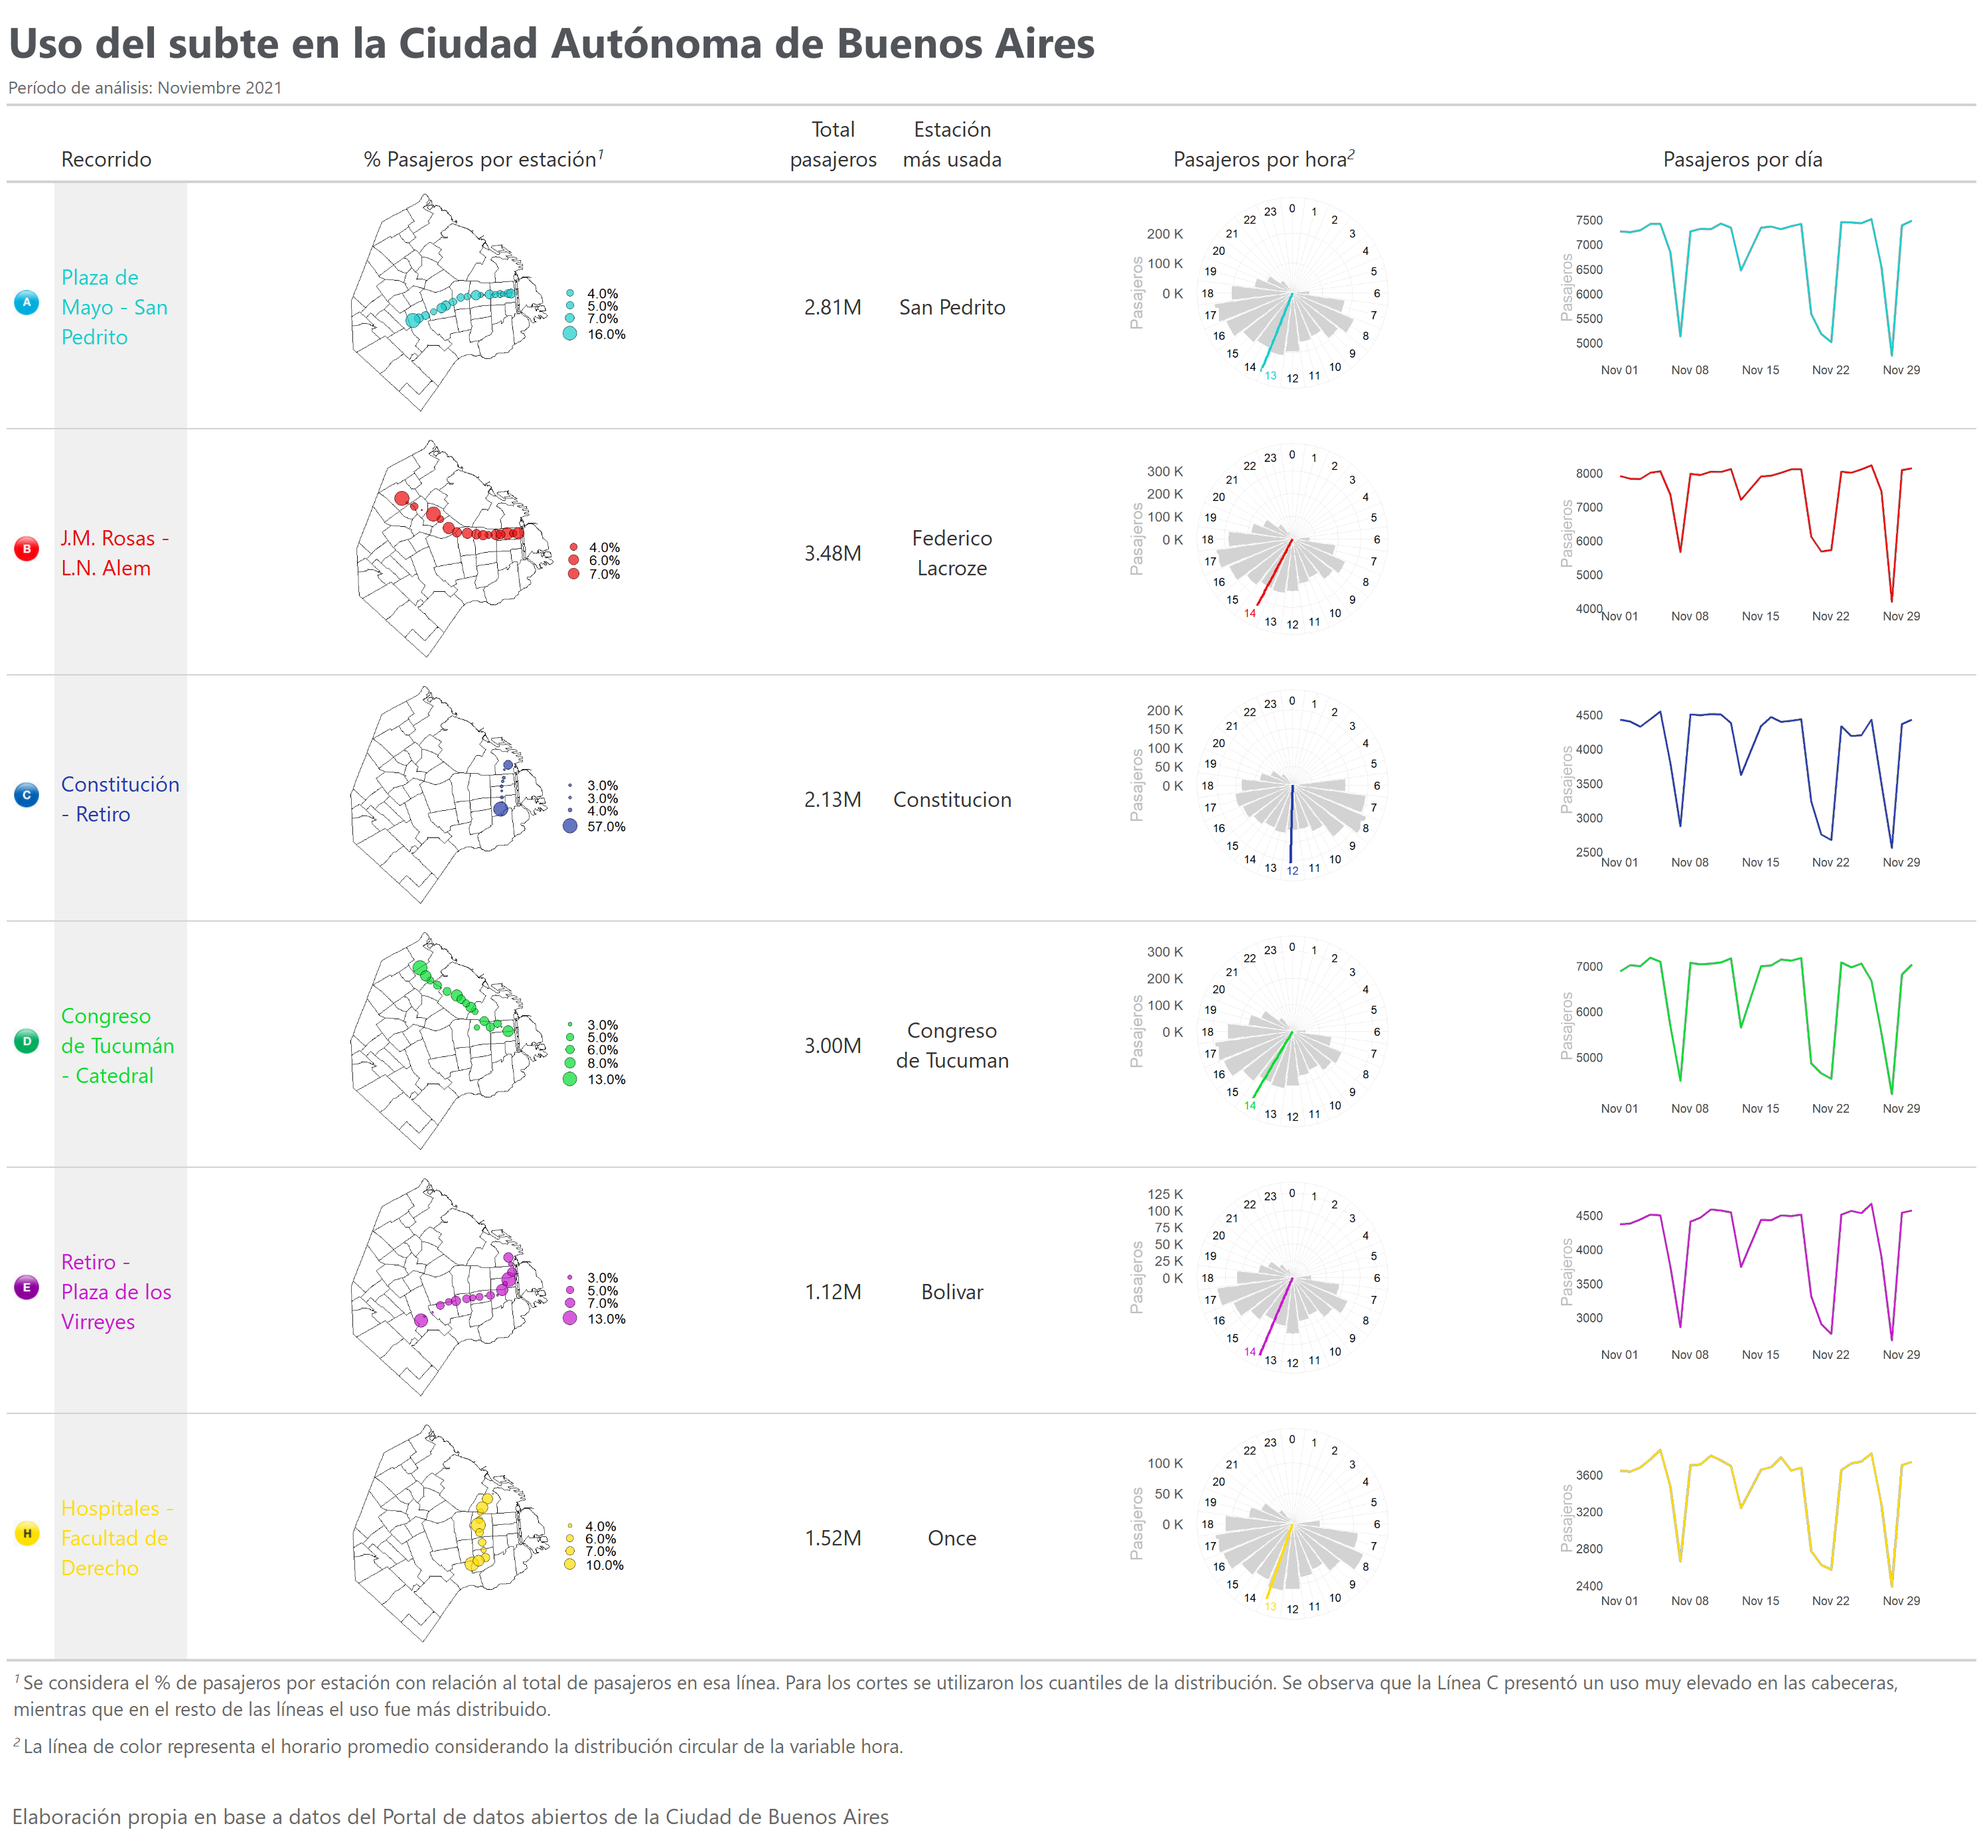
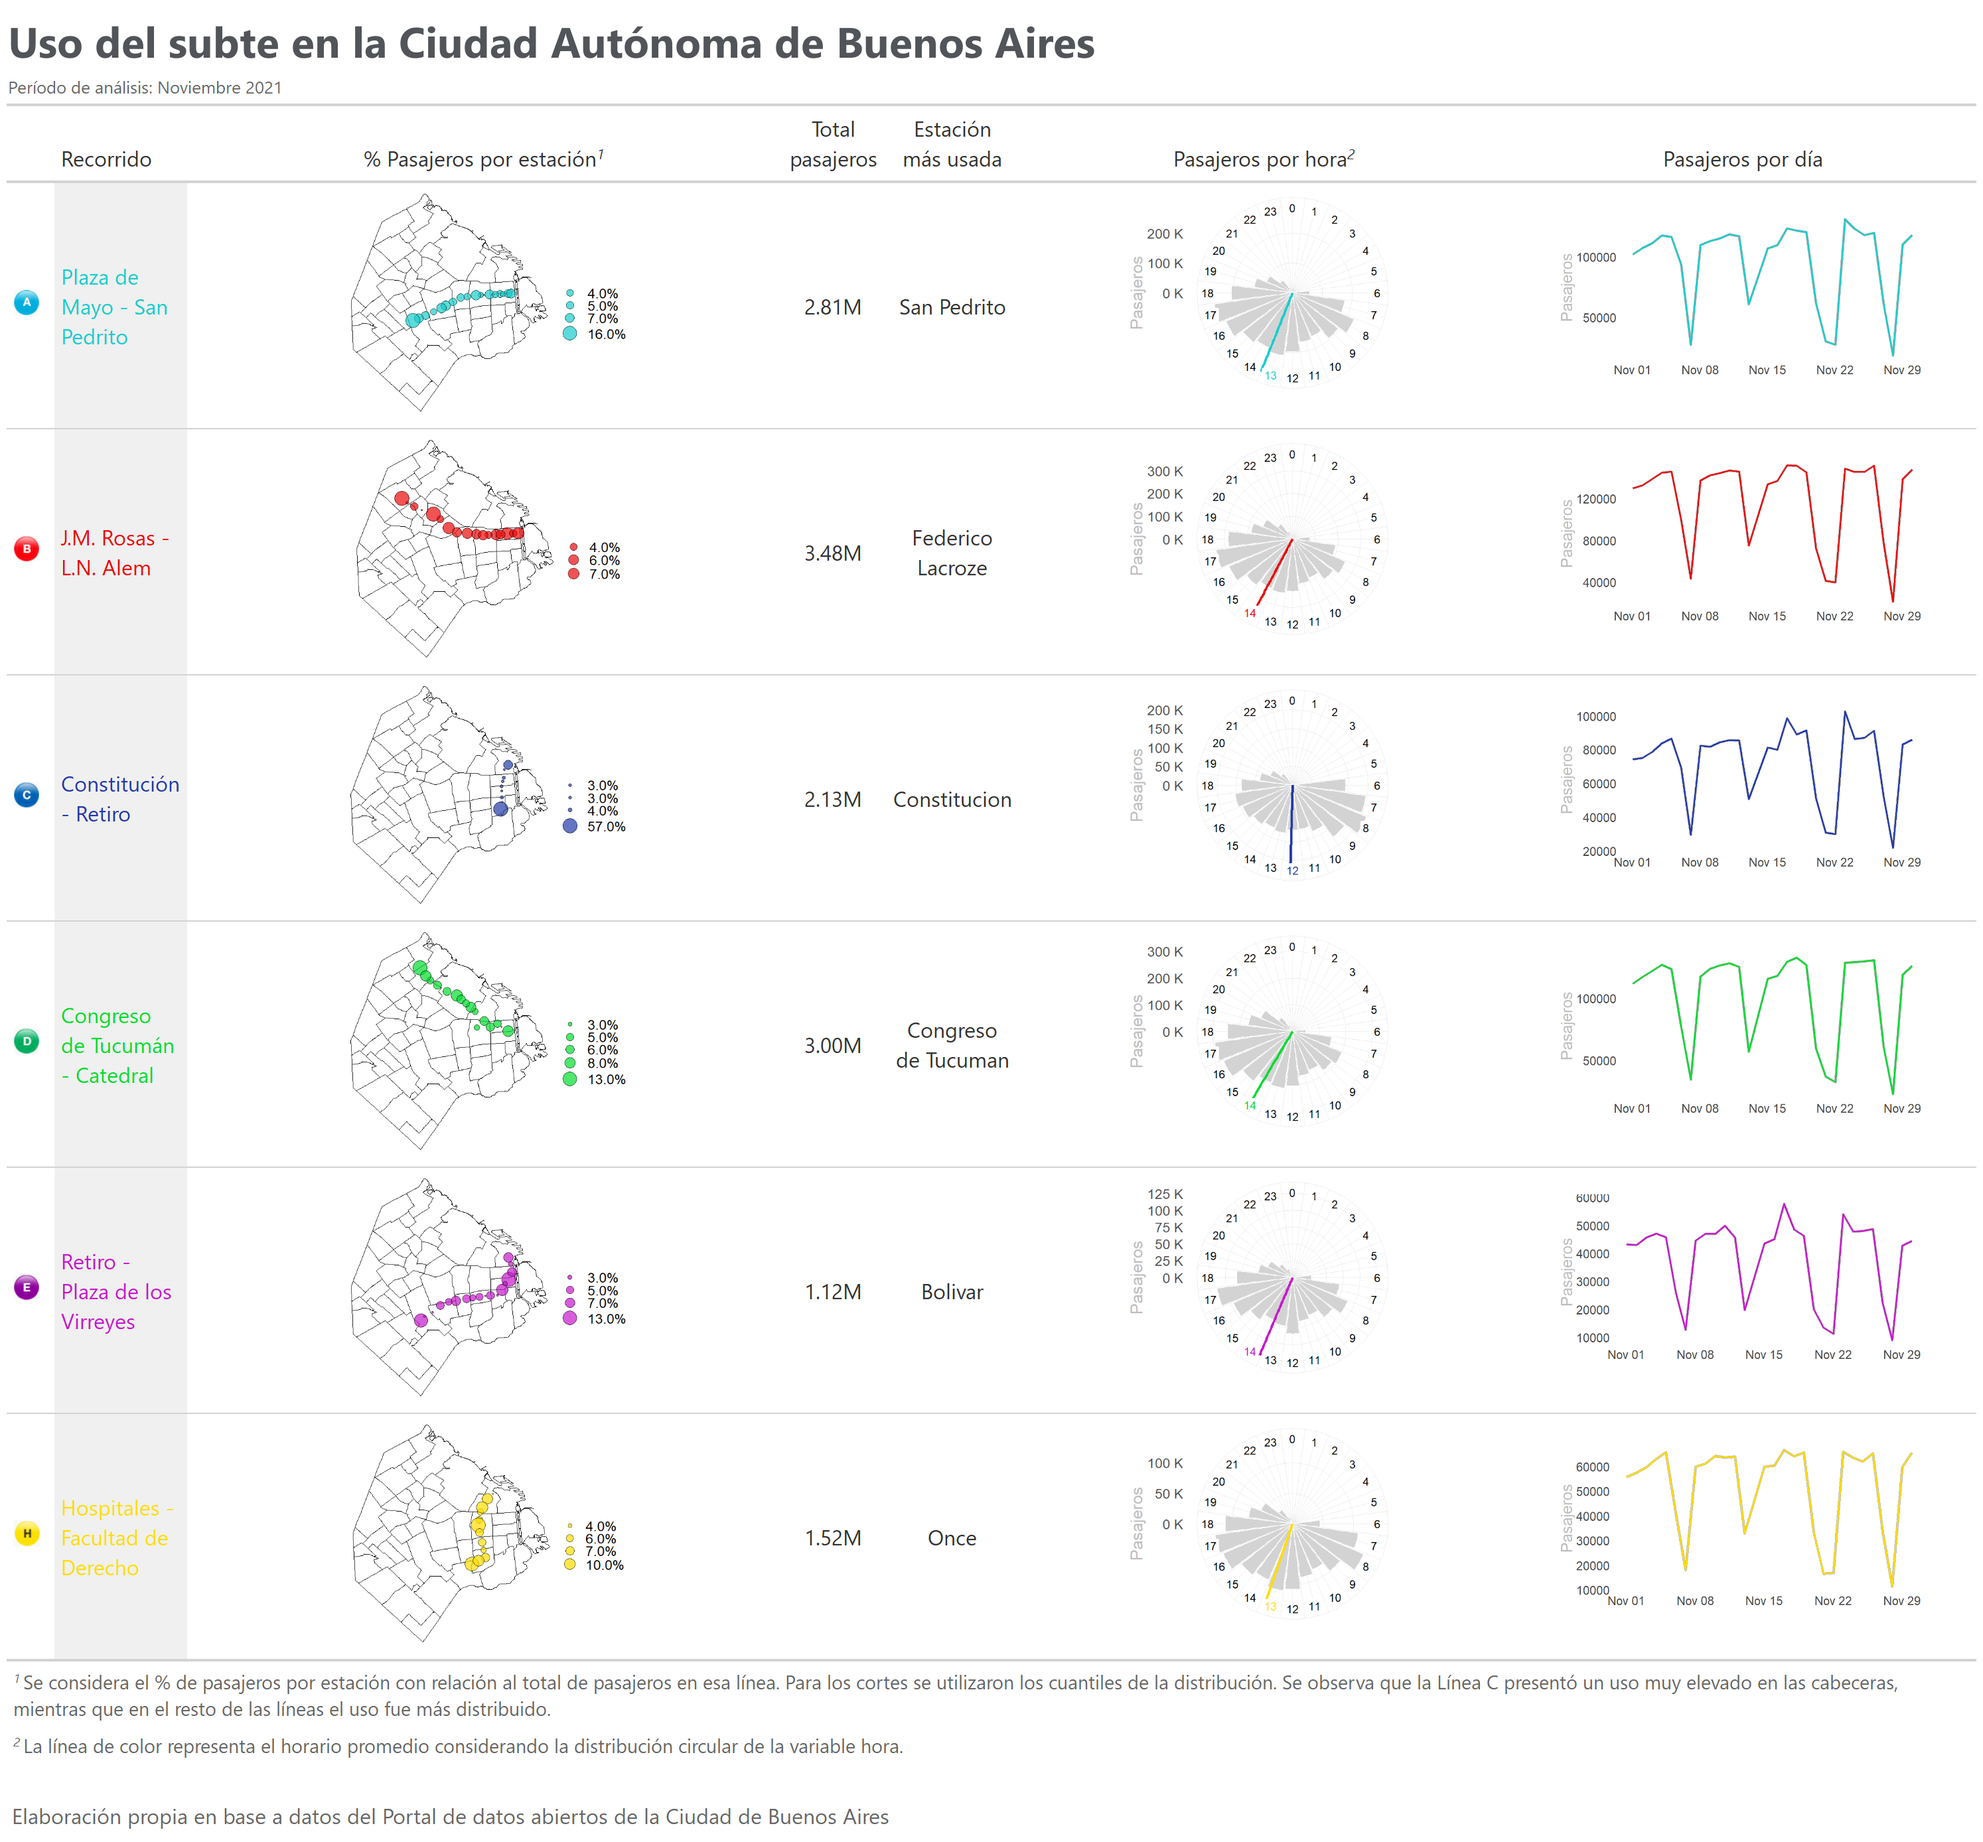
corrección summarise

diff --git a/gcba_subte/gcba_subte.md b/gcba_subte/gcba_subte.md
@@ -314,7 +314,7 @@ datos_tabla <- tibble(linea = sort(unique(df$linea))) %>%
     evolucion_plot = map2(linea, color,
       ~ df %>% filter(linea == .x) %>%
           group_by(fecha) %>%
-          summarise(n = n()) %>%
+          summarise(n = sum(pax_total)) %>%
           ggplot(aes(x = fecha, y = n)) +
           geom_line(color='grey', size=2.5)+
           geom_line(color=.y, size=1.5)+
